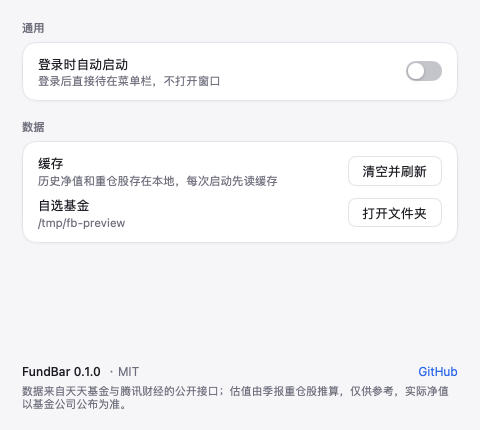
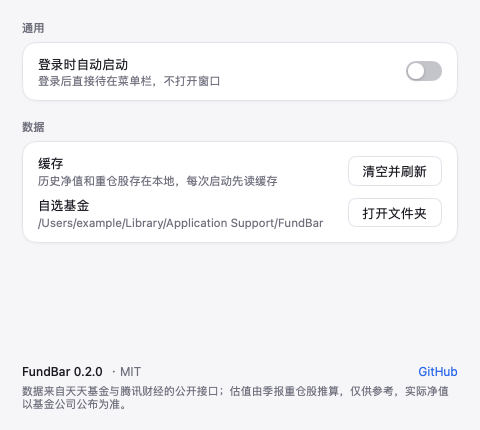
docs: 预览里的版本号与设置截图

Changed region(s): [[0.0938, 0.4837, 0.6875, 0.5442], [0.1562, 0.8465, 0.2188, 0.8767], [0.25, 0.8465, 0.2812, 0.8767]]

diff --git a/internal/app/settings.go b/internal/app/settings.go
@@ -113,13 +113,18 @@ func (a *App) loginItem() bool {
 	return mygo.App.OpenAtLogin()
 }
 
-// version is the app's, or the file's when drawn without a running app.
+// version is the app's, or the one the previews show when drawn without a
+// running app.
 func (a *App) version() string {
 	if !mygo.App.IsReady() {
-		return "0.1.0"
+		return previewVersion
 	}
 	return mygo.App.Version()
 }
+
+// previewVersion is what a window drawn without a running app shows, as
+// tools/shot draws one; mygo.json holds the version of a build.
+const previewVersion = "0.2.0"
 
 // openAtLogin starts the app at login, or stops it, as the user asked.
 func (a *App) openAtLogin(on bool) {
